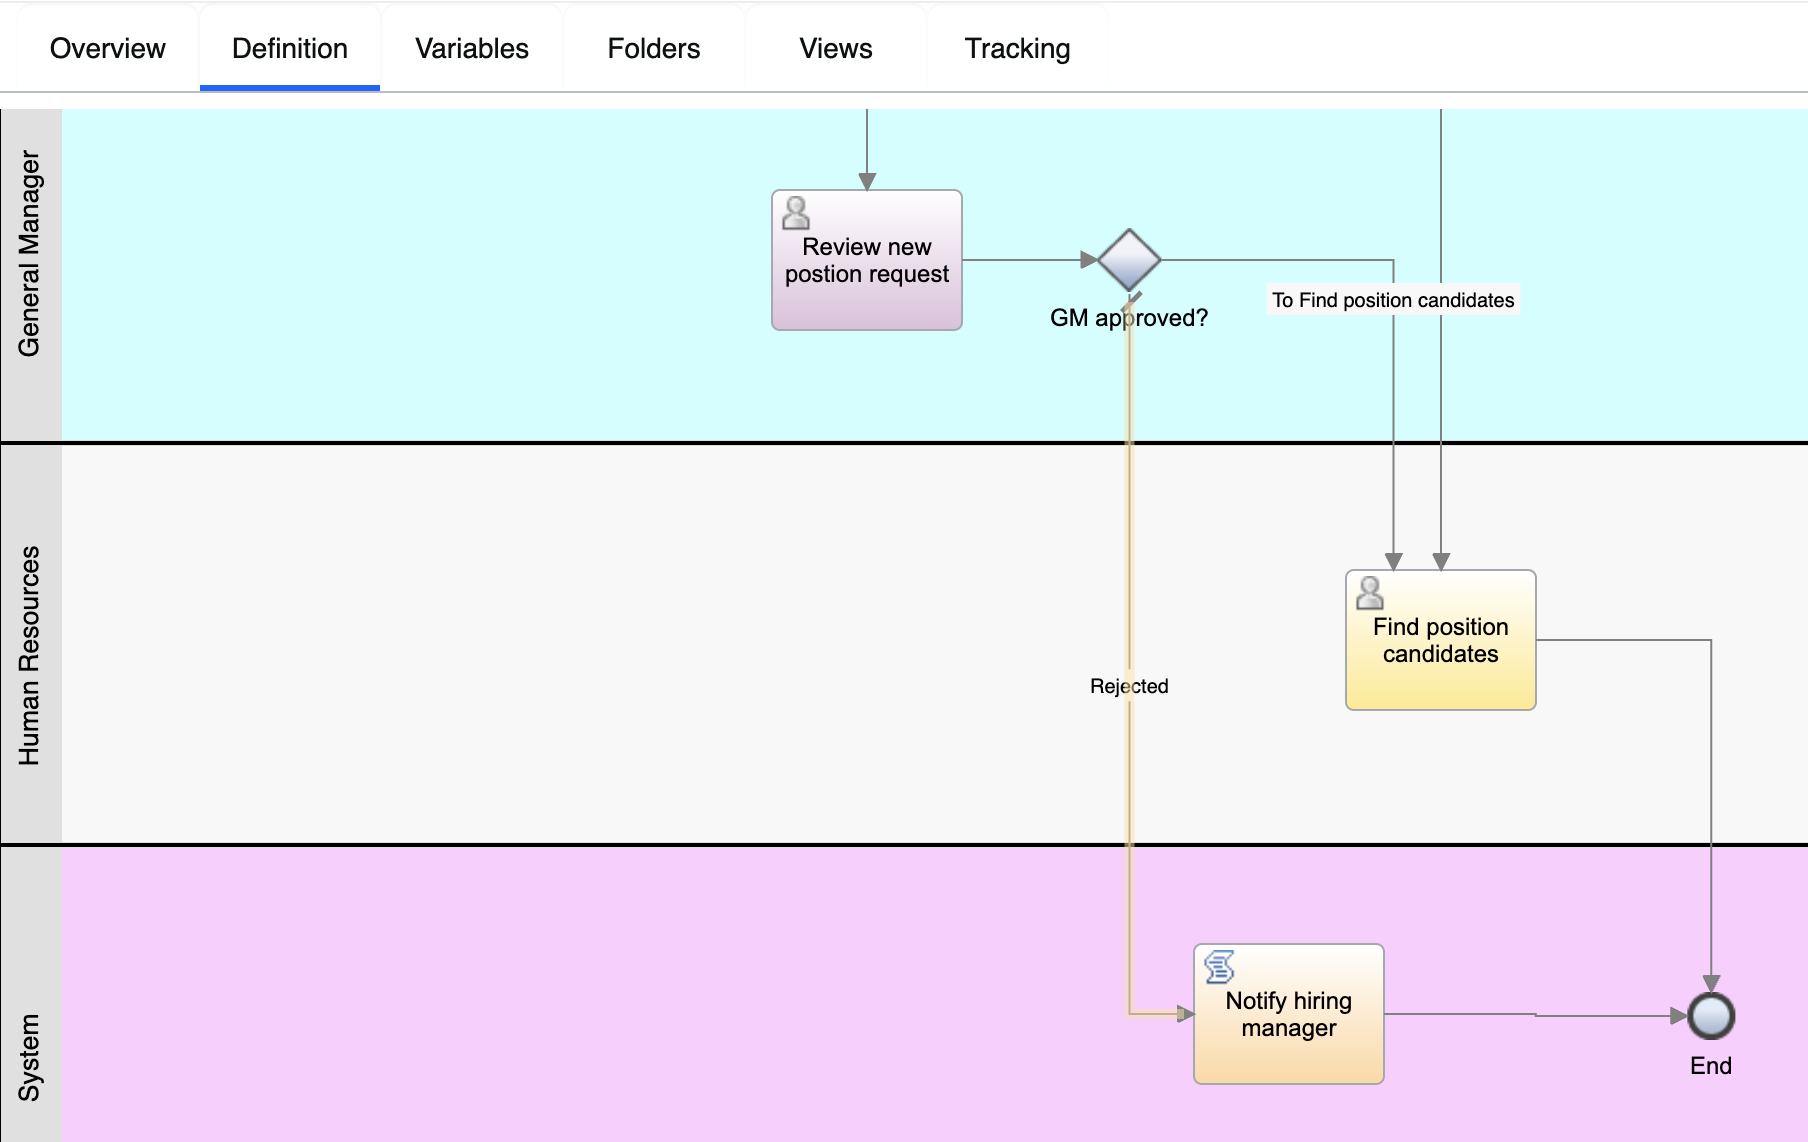
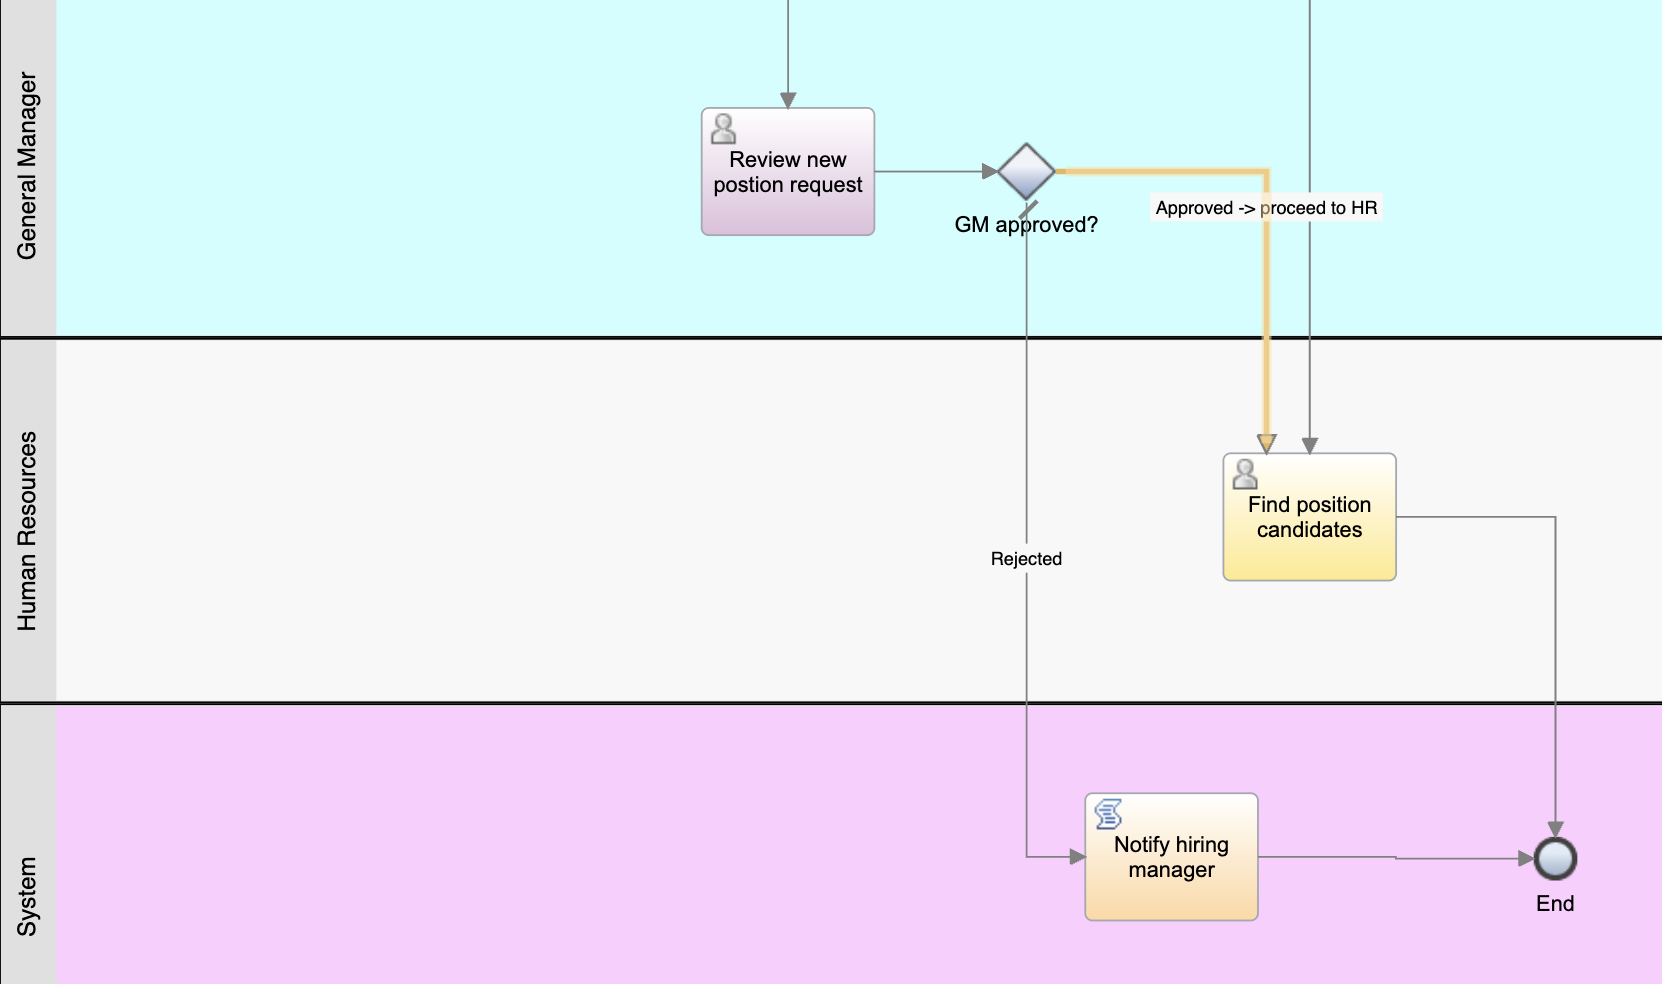
initial low-code sample

diff --git a/low-code-worflow-development/02 Model the process.md b/low-code-worflow-development/02 Model the process.md
@@ -3,7 +3,7 @@ A process application is a container that stores process models and supporting i
 includes processes, the services that implement activities and integrate with other systems, 
 and other items required to run the processes. 
 
-In this lesson you create the process application to contain the Standard HR Open New Position process.
+In this lesson you create the process application to contain the `Standard HR Open New Position` process.
 
 1. Navigate to the provided URL on IBM Cloud.
 2. Select the authentication type `Enterprise LDAP` and login with the provided user
@@ -73,7 +73,7 @@ start an instance of this process.
 7. Save your changes.
 
 # Add activities and events
-In this lesson you add activities and events to the lanes in the Standard HR Open New Position process to establish the correct process flow.
+In this lesson you add activities and events to the lanes in the `Standard HR Open New` Position process to establish the correct process flow.
 
 When you add activities and events, follow these guidelines:
 
@@ -144,7 +144,7 @@ Note: your work is continuously saved. You can also manually save your work when
 
 
 # Model teams
-In this lesson, you model the teams that participate in the Standard HR Open New Position process.
+In this lesson, you model the teams that participate in the `Standard HR Open New Position` process.
 Teams that are assigned to activities and lanes determine which users can work on tasks in Process Portal. 
 If a team is assigned to a lane, members of that team can work on all the tasks that are part of that lane.
 
@@ -152,7 +152,7 @@ Create a team for each of the identified user roles: hiring manager, general man
 To model the teams, you add lanes and assign teams to the process. Each lane contains the activities that the associated team or system completes. 
 You also define the teams by specifying the cost per hour, members, and managers.
 
-For the Standard HR Open New Position process, you must have the following lanes and teams:
+For the `Standard HR Open New Position` process, you must have the following lanes and teams:
 |Lane	|  Team title |
 | ----------- | ----------- |
 |Hiring Manager	| HiringManagers |
@@ -177,7 +177,7 @@ The system lane contains the activities that IBM Business Automation Workflow co
  - Click Finish Editing.
 
 3. To return to the Standard HR Open New Position process, click Human Resources and then select the process from the list.
-4. You are now back in the main canvas of the Standard HR Open New Position process.
+4. You are now back in the main canvas of the `Standard HR Open New Position` process.
 4. Add the remaining teams using the information in the following table:
 |Lane	| Team	 | Members	| Managers |
 | ----------- | ----------- | -------------- | --------------- |
@@ -207,13 +207,13 @@ Notice that the flow line that goes to the `Find position candidates` activity i
   - If more than one sequence flow leaves the same flow object, the first one that you add is the default sequence flow.
   - If your sequence is incorrect and you have the wrong default line, delete all the sequence flow lines from the activity and redo them.
 
-4. Connect the Find position candidates activity to the End event.
-5. Connect the Review new position request activity to the Find position candidates activity and to the Notify hiring manager activity.
-6. Connect the Notify hiring manager activity to the End event.
+4. Connect the `Find position candidates` activity to the End event.
+5. Connect the `Review new position` request activity to the `Find position candidates` activity and to the `Notify hiring manager` activity.
+6. Connect the `Notify hiring manager` activity to the End event.
 
  ![Flow](graphics/pic18.png)
 
-You established the process flow in the Standard HR Open New Position process.
+You established the process flow in the `Standard HR Open New Position` process.
 
 # Add event gateways
 
@@ -223,8 +223,8 @@ In the previous lesson, you added a sequence flow line for each potential path f
 
 An event gateway represents a branching point in a process where only one of several flows can be followed, depending on the events that occur. For the `Standard HR Open New Position` process, you need the following gateways:
 
-New position?: If the position request is to fill an existing position, the request goes directly from the hiring manager to HR. If the request is to fill a new position, the requisition goes to the general manager (GM) for approval.
-GM approved?: The GM evaluates the request for a new position and either approves or rejects it. If the GM approves the new position, the request goes to human resources, who can then search for position candidates. If the GM rejects the new position request, the hiring manager is notified about the rejection and the process ends.
+`New position?`: If the position request is to fill an existing position, the request goes directly from the hiring manager to HR. If the request is to fill a new position, the requisition goes to the general manager (GM) for approval.
+`GM approved?`: The GM evaluates the request for a new position and either approves or rejects it. If the GM approves the new position, the request goes to human resources, who can then search for position candidates. If the GM rejects the new position request, the hiring manager is notified about the rejection and the process ends.
 
 1. Drag a gateway from the palette to the right of the Submit position request activity on the process diagram. In the General properties, rename it to New position?.
 2. In the General properties, verify that Exclusive Gateway is the gateway type.
@@ -239,53 +239,41 @@ GM approved?: The GM evaluates the request for a new position and either approve
   - Connect the `New position?` gateway to the top of the `Find position candidates` activity and then to the top of the `Review new position request` activity.
 
 4. Name the sequence flow lines:
-  - Click the sequence flow between the New position? gateway and the Find position candidates activity.
-  - In the Properties tab, type No approval needed –> proceed to HR as the name.
-  - Click the sequence flow between New position? and Review new position request.
-  - In the Properties tab, type Yes – GM approval required as the name.
+  - Click the sequence flow between the `New position?` gateway and the `Find position candidates` activity.
+  - In the Properties tab, type `No approval needed –> proceed to HR` as the name.
+  - Click the sequence flow between `New position?` and `Review new position request`.
+  - In the Properties tab, type `Yes – GM approval required` as the name.
 
  ![Gateway](graphics/pic21.png)
 
 5. Drag a gateway from the palette to the right of the Review new position request activity on the process diagram. Type GM approved? in the text box that displays over the gateway.
 
 6. Connect the GM approved? gateway:
-  - Delete the sequence flow between the Review new position request and the Find position candidates activities.
-  - Delete the sequence flow between the Review new position request and Notify hiring manager activities.
-  - Connect the Review new position request activity to the GM approved? gateway.
-  - Connect the GM approved? gateway to the Notify hiring manager activity and the Find position candidates activity.
-  - Name the sequence flow lines to Rejected and Approved –> proceed to HR. Your process model matches the following image:
+  - Delete the sequence flow between the `Review new position` request and the `Find position candidates` activities.
+  - Delete the sequence flow between the `Review new position` request and `Notify hiring manager` activities.
+  - Connect the `Review new position` request activity to the GM approved? gateway.
+  - Connect the `GM approved?` gateway to the `Notify hiring manager` activity and the `Find position candidates` activity.
+  - Name the sequence flow lines to `Rejected` and `Approved –> proceed to HR`. Your process model matches the following image:
 
  ![Gateway](graphics/pic22.png)
 
 7. Save your work.
-You added event gateways to the Standard HR Open New Position process.
+You added event gateways to the `Standard HR Open New Position` process.
 
-
-# Create process variables
-
-In this lesson, you create the process variables to implement the gateway logic.
-
-The process uses private variables because these variables are used only by this process. When you implement the process, you associate these variables with business objects that you will create.
-
-When you create variables, follow these guidelines:
-
-  - Create variable names that begin with a lowercase letter.
-  - Capitalize the first letter of a variable type.
-  - If the variable name is only one word, spell that word in all lowercase letters.
-  - If the variable name consists of more than one word, capitalize the first letter of each subsequent word.
-  - Remember that variable names are case sensitive.
-
-1. Click the Variables tab in the main canvas of the Standard HR Open New Position process.
-2. For a private variable, click the + sign. In the Details section that opens, type currentPosition for the name.
-3. In the same way, add the requisition private variable. As a placeholder for now, leave their types as String. You will update the types after you have created the appropriate business objects. Your private variables match the following image:
-
-![Gateway](graphics/pic23.png)
-
-4. Save your work.
-
-You added process variables to the Standard HR Open New Position process.
 
 # Conduct playback zero
 
+In this lesson, you learn about playbacks and conduct Playback Zero by reviewing the process model with the stakeholders.
+
+During a playback for business stakeholders, users, and development, the process model is examined at a designated development phase to establish process goals, achieve consensus, collaboratively improve the process model, and, ultimately, approve the process model. By using playbacks, you can develop a process application iteratively.
+
+Playback Zero is an important milestone in a Business Process Manager project-development lifecycle because it is during Playback Zero that a business process is identified and analyzed as a good candidate for a business process management project. During Playback Zero, the business process is defined, modeled, refined, and reviewed through discussion, discovery, and process analysis.
+
+1. Review the process model by checking that your process model matches the following image:
+
+ ![Playback Zero](graphics/pic24.png)
+
+2. Step through the process to simulate a playback, explaining your process model to someone else.
+3. Add new process requirements to the `Standard HR Open New Position` process. For this tutorial, no additional requirements go into the process. The process model is now ready for implementation.
 
 

diff --git a/low-code-worflow-development/01-Introduction.md b/low-code-worflow-development/01-Introduction.md
@@ -1,25 +1,34 @@
-# Introduction to business automation
+# Process Requirements
 
-Most of the business processes today are executed by humans, supported by technology. This is about to change.
-More and more, business proesses are executed by technology, supported by humans. 
+The process that you are going to create is called the Standard HR Open New Position process. This process covers how to fill a job position by submitting, approving, and routing a job requisition to the Human Resources (HR) department to search for position candidates.
 
-A process that is automated to a large extend may still require support from a human.
-When it comes to taking a decision based on profound knowledge of a situation, leading a payment dispute with a customer or 
-simply decoding an unreadable handwriting in a form - people can master such situation better and faster than today's technology.
+The `Standard HR Open New Position` process includes the following requirements:
 
-An automated business process delivers efficiency and speed improvements. 
-People who still need to interact with the process may benefit from a user experience that supports them in their task. 
-The user interface may provide all information that a human needs to complete their task in context of this task.
+- The hiring manager must either fill a new position or replace an employee who is departing from an existing position.
+- The hiring manager must determine the position requirements and prepare a position request to be submitted to the HR department. The hiring manager provides the following information in the request:
+  - Name of the hiring manager
+  - Title of the position
+  - Name of the department that requires the position
+  - Whether the request is for a new or existing position
+  - Whether the job is part-time, full-time, or contract
+  - When the position starts
+  - Where the position is located
 
-In general, automation technology includes any form of software that allows an automated execution of business processes:
-Workflow engines, business rules engines, digital document processing, Robotic Process Automation, Natural Language Processing, Artificial Intelligence and many more.
+- For an existing position, the hiring manager must provide the following additional information about the person who will be replaced:
+  - Given name
+  - Family name
+  - The person’s manager or supervisor
+  - Comments regarding the person
 
-In this tutorial, a business process is created that includes a series of steps where humans and technology interact and complement each other.
-The business workflow is authored and executed in IBM Business Automation Workflow (IBM BAW). The creation of the business workflow does not require 
-implementation skills. This concept is referred to as "low-code development".
+- The hiring manager reviews and approves the position request before the hiring procedure continues:
+  - If the request is to fill an existing position, the hiring manager sends the request directly to HR. When HR receives the request, they search for candidates.
+  - If the request is to fill a new position, the hiring manager sends the request to the general manager (GM) for approval.
 
-You will develop the business process Standard HR Open New Position. It is initiated by managers who need to staff an open position.
-The request is approved by a General Manager and then routed to HR to find an appropriate candidate.
+- When HR receives the position request, they process it. The tutorial does not provide an implementation of this processing.
+- The GM must evaluate the new position request and either approve or reject it.
+  - If the GM approves the request, it then goes to HR so that HR can find candidates.
+  - If the GM rejects the request, the hiring manager is notified and the process ends.
+  - If the GM does not handle the request by the due date, the GM is notified.
 
 The original tutorial can be found in https://www.ibm.com/community/automation/docs/baw/tutorials/hiring-tutorial/
 This version of the tutorial includes updates to the look and feel based on IBM Cloud Pak for Business Automation version 21.0.3.

diff --git a/low-code-worflow-development/03-Implement-the-process.md b/low-code-worflow-development/03-Implement-the-process.md
@@ -1,5 +1,28 @@
 # Create business objects
 
+
+In this lesson, you create the process variables to implement the gateway logic.
+
+The process uses private variables because these variables are used only by this process. When you implement the process, you associate these variables with business objects that you will create.
+
+When you create variables, follow these guidelines:
+
+  - Create variable names that begin with a lowercase letter.
+  - Capitalize the first letter of a variable type.
+  - If the variable name is only one word, spell that word in all lowercase letters.
+  - If the variable name consists of more than one word, capitalize the first letter of each subsequent word.
+  - Remember that variable names are case sensitive.
+
+1. Click the Variables tab in the main canvas of the Standard HR Open New Position process.
+2. For a private variable, click the + sign. In the Details section that opens, type currentPosition for the name.
+3. In the same way, add the requisition private variable. As a placeholder for now, leave their types as String. You will update the types after you have created the appropriate business objects. Your private variables match the following image:
+
+![Gateway](graphics/pic23.png)
+
+4. Save your work.
+
+You added process variables to the Standard HR Open New Position process.
+
 # Implement the timer intermediate event
 
 # Implement gateways
